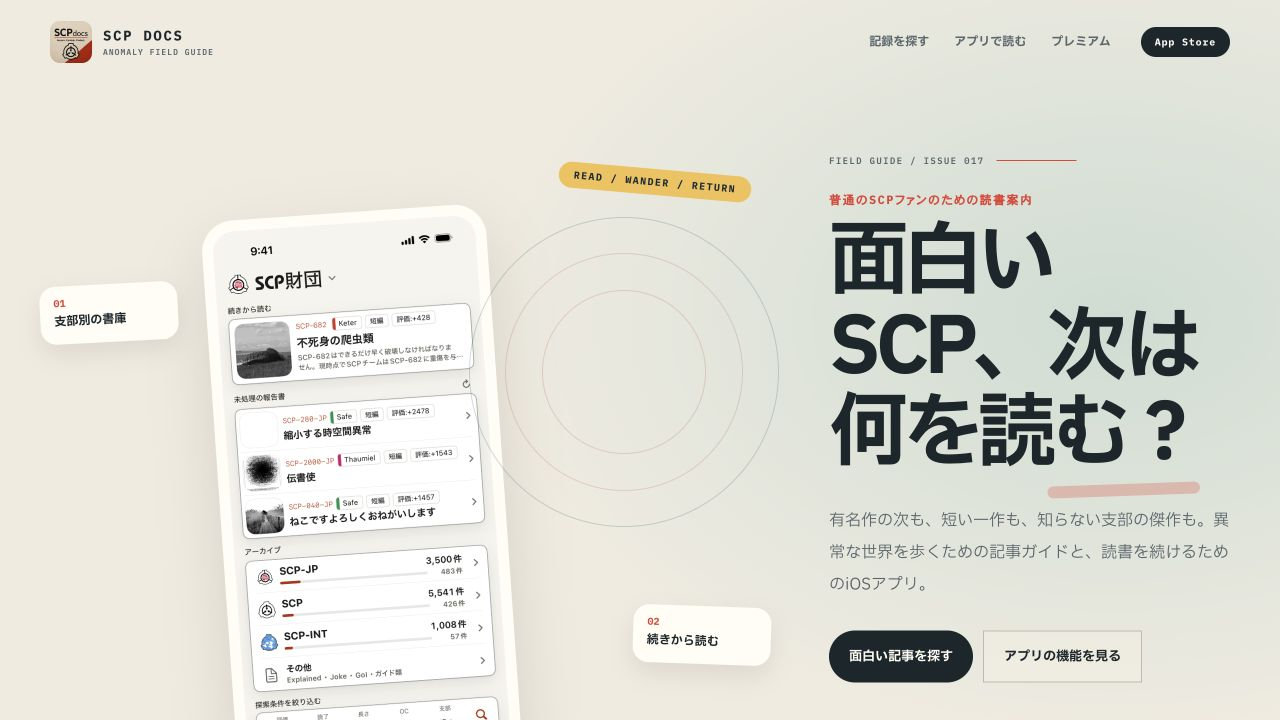
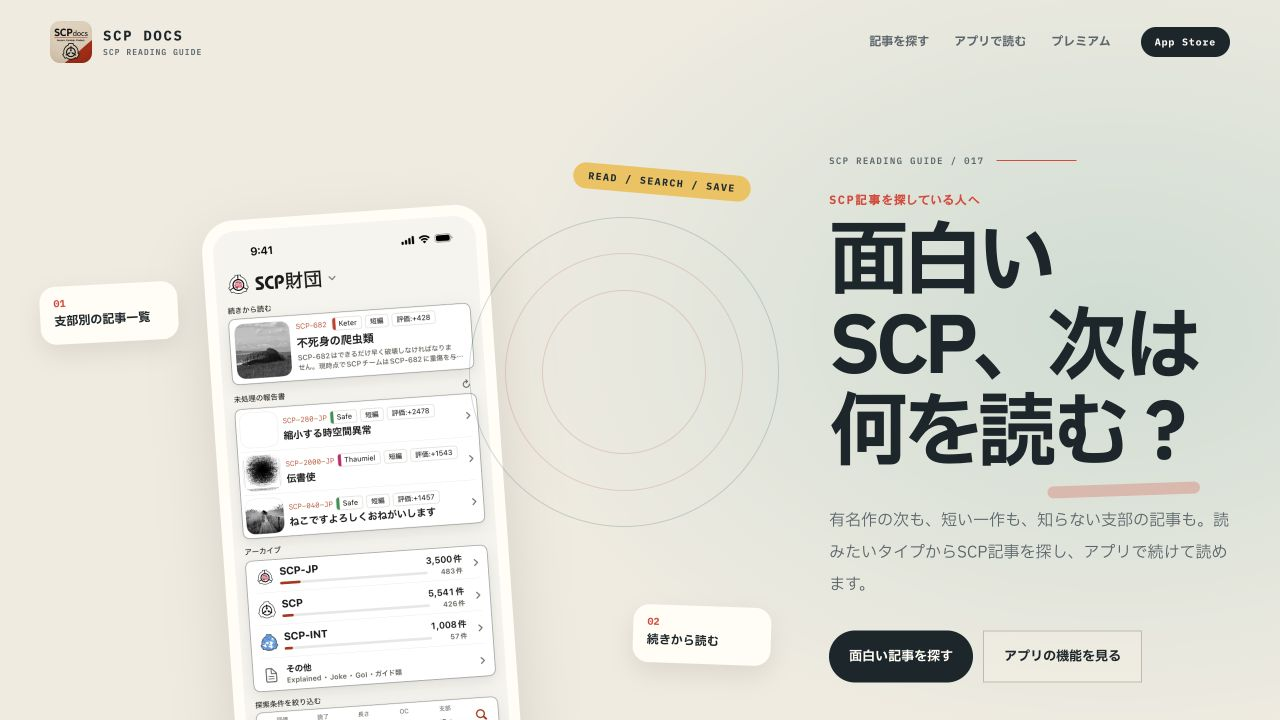
Refine SCP site mock copy

diff --git a/design-mocks/worldbuilding-2026-08/concept.html b/design-mocks/worldbuilding-2026-08/concept.html
@@ -15,7 +15,7 @@
         <span><b>SCP DOCS</b><small data-brand-sub>PUBLIC ARCHIVE</small></span>
       </a>
       <nav>
-        <a href="#discover">記録を探す</a>
+        <a href="#discover">記事を探す</a>
         <a href="#app">アプリで読む</a>
         <a href="#premium">プレミアム</a>
       </nav>
@@ -26,9 +26,9 @@
       <section class="hero">
         <div class="hero-copy">
           <div class="eyebrow"><span data-case-code>PUBLIC ACCESS / JP</span><i></i></div>
-          <p class="hero-overline" data-hero-overline>財団記録・公開閲覧窓口</p>
-          <h1 data-hero-title>公開された異常記録を、<em>読みやすい書庫へ。</em></h1>
-          <p class="hero-lede" data-hero-lede>SCP、Tales、Canon、GoI。散らばった記録を探し、読み、あとから同じ場所へ戻るための非公式アーカイブリーダー。</p>
+          <p class="hero-overline" data-hero-overline>SCP記事を探す・読む</p>
+          <h1 data-hero-title>SCP記事を、<em>探しやすく、読みやすく。</em></h1>
+          <p class="hero-lede" data-hero-lede>SCP、Tales、Canon、GoIを、各支部の一覧や検索から探せます。読んだ記事は、履歴やブックマークからあとで開けます。</p>
           <div class="hero-actions">
             <a class="primary-action" href="#discover">面白い記事を探す</a>
             <a class="secondary-action" href="#app">アプリの機能を見る</a>
@@ -44,22 +44,22 @@
           <div class="phone-card phone-home">
             <img src="../../assets/images/home-ja.png" alt="SCP Docs ホーム画面" />
           </div>
-          <div class="visual-note note-one"><b>01</b><span>支部別の書庫</span></div>
+          <div class="visual-note note-one"><b>01</b><span>支部別の記事一覧</span></div>
           <div class="visual-note note-two"><b>02</b><span>続きから読む</span></div>
           <div class="orbit-mark" aria-hidden="true"></div>
         </div>
       </section>
 
       <section class="world-strip" aria-label="サイトの特徴">
-        <p data-strip-lead>このサイトだけでも、次に読む記事が見つかる。</p>
-        <div><span>高評価</span><span>短編</span><span>ぞっとする</span><span>世界観</span><span>ランダム</span></div>
+        <p data-strip-lead>このサイトだけでも、次に読む記事を探せます。</p>
+        <div><span>高評価</span><span>短編</span><span>ホラー</span><span>Canon・GoI</span><span>ランダム</span></div>
       </section>
 
       <section class="discover section" id="discover">
         <div class="section-intro">
           <p class="section-code">DISCOVERY / PUBLIC</p>
-          <h2 data-discover-title>今夜読む記録を、ここで選ぶ。</h2>
-          <p data-discover-lede>アプリを持っていなくても使える記事発見ページ。評価、長さ、タグ、読了状態ではなく「どんな読後感がほしいか」から入れます。</p>
+          <h2 data-discover-title>次に読む記事を選ぶ。</h2>
+          <p data-discover-lede>アプリを持っていなくても使える記事検索。評価、長さ、タグのほか、「短く読める」「ホラー」「メタ」などから候補を探せます。</p>
         </div>
         <div class="filter-row" aria-label="記事の探し方">
           <button class="active">編集部の推薦</button><button>短く読める</button><button>不穏</button><button>泣ける</button><button>メタ</button><button>完全ランダム</button>
@@ -90,7 +90,7 @@
             <div class="article-content">
               <p class="article-kind">SCP-JP · EUCLID</p>
               <h3>孤独な放送室</h3>
-              <p>誰もいない放送室から届く声。建物と記憶をめぐる静かな異常。</p>
+              <p>誰もいない放送室から届く声。建物と記憶を扱ったSCP-JP記事。</p>
               <div class="article-meta"><span>評価 +1038</span><span>不穏</span></div>
             </div>
             <a href="https://scp-jp.wikidot.com/scp-544-jp">公式記事へ ↗</a>
@@ -121,18 +121,18 @@
       <section class="premium section" id="premium">
         <div class="premium-visual">
           <figure class="app-shot library-shot">
-            <span>PERSONAL ARCHIVE / PREMIUM</span>
+            <span>LIBRARY / PREMIUM</span>
             <img src="../../assets/images/library-sections-ja.png" alt="SCP Docs ライブラリ画面" />
           </figure>
           <div class="folder-stack" aria-hidden="true"><i></i><i></i><i></i></div>
         </div>
         <div class="premium-copy">
-          <p class="section-code">PREMIUM / PERSONAL LAYER</p>
-          <h2>読んだ痕跡を、<br />自分の書庫にする。</h2>
-          <p>プレミアムは検索を制限するものではなく、長く読む人の「整理・記録・再読」を深くする機能です。</p>
+          <p class="section-code">PREMIUM / LIBRARY TOOLS</p>
+          <h2>ブックマークを、<br />フォルダで整理する。</h2>
+          <p>プレミアムでは、ブックマークフォルダ、ハイライト、オフライン保存、読書統計、メモ編集、広告非表示を利用できます。検索機能は無料版でもすべて使えます。</p>
           <div class="premium-list">
             <article><span>01</span><div><b>ブックマークフォルダ</b><p>ネスト、移動、複数選択、手動並べ替え。iCloudで同期。</p></div></article>
-            <article><span>02</span><div><b>3色ハイライト</b><p>黄色・青・ピンクで本文を保存し、書庫から元の箇所へ。</p></div></article>
+            <article><span>02</span><div><b>3色ハイライト</b><p>黄色・青・ピンクで本文を保存し、ライブラリから元の箇所へ。</p></div></article>
             <article><span>03</span><div><b>読むための道具</b><p>オフライン、読み上げ、読書統計、メモ編集、広告非表示。</p></div></article>
           </div>
           <a class="primary-action" href="https://apps.apple.com/jp/app/scp-docs/id6765882660">App Storeで見る</a>
@@ -141,7 +141,7 @@
 
       <section class="closing">
         <p class="section-code">UNOFFICIAL / FAN-MADE</p>
-        <h2 data-closing-title>公式サイトを置き換えない。<br />そこへ戻る道を、読みやすくする。</h2>
+        <h2 data-closing-title>公式記事へのリンクと作者・ライセンスを保ったまま、<br />スマートフォンで読みやすくします。</h2>
         <p>SCP Docsは非公式ファンアプリです。記事本文、作者表示、ライセンスは各公式サイトが正本です。</p>
       </section>
     </main>

diff --git a/design-mocks/worldbuilding-2026-08/mock.js b/design-mocks/worldbuilding-2026-08/mock.js
@@ -1,42 +1,42 @@
 const concepts = {
   a: {
-    title: "SCP Docs — 公開記録閲覧室",
-    brand: "PUBLIC ARCHIVE",
-    code: "PUBLIC ACCESS / JP",
-    classification: "公開閲覧用",
-    overline: "財団記録・公開閲覧窓口",
-    hero: "公開された異常記録を、<em>読みやすい書庫へ。</em>",
-    lede: "SCP、Tales、Canon、GoI。散らばった記録を探し、読み、あとから同じ場所へ戻るための非公式アーカイブリーダー。",
-    strip: "このサイトだけでも、次に読む記事が見つかる。",
-    discover: "今夜読む記録を、ここで選ぶ。",
-    discoverLede: "アプリを持っていなくても使える記事発見ページ。評価、長さ、タグ、読了状態ではなく「どんな読後感がほしいか」から入れます。",
-    closing: "公式サイトを置き換えない。<br />そこへ戻る道を、読みやすくする。",
+    title: "SCP Docs — SCP記事アーカイブ",
+    brand: "SCP ARTICLE ARCHIVE",
+    code: "SCP ARTICLES / JP",
+    classification: "非公式ファンアプリ",
+    overline: "SCP記事を探す・読む",
+    hero: "SCP記事を、<em>探しやすく、読みやすく。</em>",
+    lede: "SCP、Tales、Canon、GoIを、各支部の一覧や検索から探せます。読んだ記事は、履歴やブックマークからあとで開けます。",
+    strip: "このサイトだけでも、次に読む記事を探せます。",
+    discover: "次に読む記事を選ぶ。",
+    discoverLede: "アプリを持っていなくても使える記事検索。評価、長さ、タグのほか、「短く読める」「ホラー」「メタ」などから候補を探せます。",
+    closing: "公式記事へのリンクと作者・ライセンスを保ったまま、<br />スマートフォンで読みやすくします。",
   },
   b: {
-    title: "SCP Docs — 異常世界案内所",
-    brand: "ANOMALY FIELD GUIDE",
-    code: "FIELD GUIDE / ISSUE 017",
-    classification: "READ / WANDER / RETURN",
-    overline: "普通のSCPファンのための読書案内",
+    title: "SCP Docs — SCP読書案内",
+    brand: "SCP READING GUIDE",
+    code: "SCP READING GUIDE / 017",
+    classification: "READ / SEARCH / SAVE",
+    overline: "SCP記事を探している人へ",
     hero: "面白いSCP、<em>次は何を読む？</em>",
-    lede: "有名作の次も、短い一作も、知らない支部の傑作も。異常な世界を歩くための記事ガイドと、読書を続けるためのiOSアプリ。",
-    strip: "怖さだけじゃない。物語、世界観、ユーモアまで歩き回る。",
-    discover: "気分から選ぶ、異常世界の入口。",
-    discoverLede: "ランキングだけに寄らず、怖い、切ない、奇妙、短く読めるなど、読者の気分を入口に次の一作へ案内します。",
-    closing: "異常な世界は広い。<br />迷う時間まで、読書に変える。",
+    lede: "有名作の次も、短い一作も、知らない支部の記事も。読みたいタイプからSCP記事を探し、アプリで続けて読めます。",
+    strip: "SCP、Tales、Canon、GoIから、次に読む記事を探せます。",
+    discover: "読みたいタイプから、記事を選ぶ。",
+    discoverLede: "高評価順だけでなく、ホラー、短編、しんみり、メタなど、読みたいタイプから候補を探します。",
+    closing: "次に読む記事が、<br />すぐ見つかる。",
   },
   c: {
     title: "SCP Docs — 第17サイト閲覧端末",
-    brand: "SITE-17 READING SYSTEM",
-    code: "NODE 17 / ARCHIVE ONLINE",
-    classification: "SYSTEM NORMAL",
-    overline: "財団記録・読書支援システム",
-    hero: "17支部の記録へ、<em>最短でアクセス。</em>",
-    lede: "索引、検索、読書状態、個人書庫をひとつの操作系へ。SCPの膨大な公開記録を、精密に探して読み進めるネイティブ環境。",
-    strip: "検索は全機能無料。個人書庫はプレミアムで拡張。",
-    discover: "本日の推奨記録を照合する。",
-    discoverLede: "高評価、長さ、文書種別、タグを横断し、今の条件に合う候補を即座に提示します。Webから公式記事へ直接アクセスできます。",
-    closing: "公開記録へのアクセスを、<br />速く、正確に、途切れなく。",
+    brand: "SCP DOCS / SEARCH SYSTEM",
+    code: "17 BRANCHES / SEARCH READY",
+    classification: "SEARCH AVAILABLE",
+    overline: "17支部の記事検索",
+    hero: "17支部の記事を、<em>ひとつの検索から。</em>",
+    lede: "SCP、Tales、Canon、GoIを、番号、タイトル、タグ、Object Classなどから検索。読書状態とブックマークも同じアプリで管理できます。",
+    strip: "検索機能はすべて無料。フォルダやハイライトはプレミアム。",
+    discover: "条件に合う記事を探す。",
+    discoverLede: "評価、長さ、文書種別、タグを組み合わせ、読みたい条件に合う記事を探せます。Webから公式記事を直接開けます。",
+    closing: "記事を探す、読む、<br />あとからもう一度開く。",
   },
 };
 

diff --git a/design-mocks/worldbuilding-2026-08/index.html b/design-mocks/worldbuilding-2026-08/index.html
@@ -15,23 +15,23 @@
     <div class="selector-grid">
       <a class="selector-card selector-a" href="concept.html?concept=a">
         <span class="selector-number">A</span>
-        <strong>公開記録閲覧室</strong>
-        <small>Foundation Archive</small>
-        <p>紙の機密記録と公開書庫。SCPらしさが最も直接的で、アプリ機能の説明にも強い。</p>
+        <strong>SCP記事アーカイブ</strong>
+        <small>SCP Article Archive</small>
+        <p>機密文書風の紙面構成。SCP記事の検索と、アプリの整理機能を落ち着いて説明する案。</p>
         <span class="selector-link">モックを見る →</span>
       </a>
       <a class="selector-card selector-b" href="concept.html?concept=b">
         <span class="selector-number">B</span>
-        <strong>異常世界案内所</strong>
-        <small>Anomaly Field Guide</small>
-        <p>読み物・カルチャー誌として入口を広げる。普通のSCPファンと「次に読む記事」を主役にする。</p>
+        <strong>SCP読書案内</strong>
+        <small>SCP Reading Guide</small>
+        <p>「次に何を読むか」を主役にする。普段からSCPを読む人にも、記事を探し始めた人にも使いやすい案。</p>
         <span class="selector-link">モックを見る →</span>
       </a>
       <a class="selector-card selector-c" href="concept.html?concept=c">
         <span class="selector-number">C</span>
         <strong>第17サイト閲覧端末</strong>
         <small>Site-17 Briefing</small>
-        <p>明るい技術文書と作戦盤。検索の強さ、17支部、読書データを精密なプロダクトとして見せる。</p>
+        <p>検索条件、対応支部、読書状態を明確に見せる。検索の強さを中心に据えた案。</p>
         <span class="selector-link">モックを見る →</span>
       </a>
     </div>
